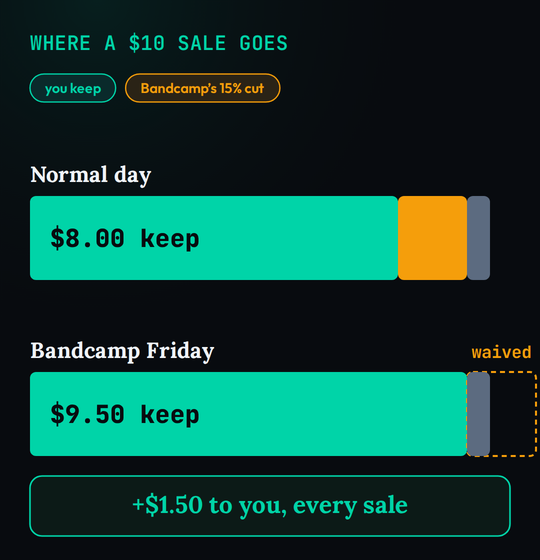
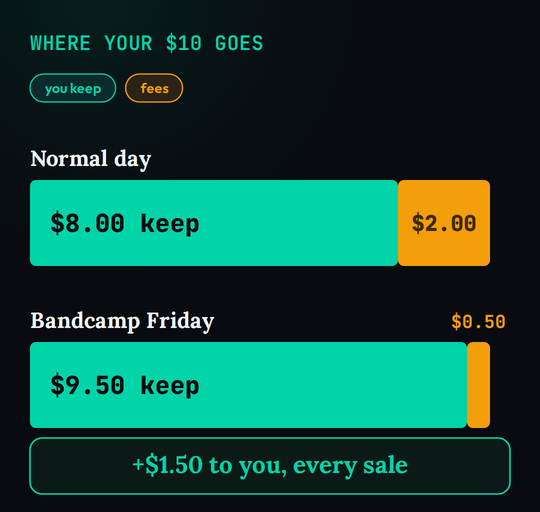
is-bandcamp-worth-it: music-business — article + 3 figure PNG (+3 alt) + search-index + sitemap, one deploy [S212]

diff --git a/articles/is-bandcamp-worth-it.html b/articles/is-bandcamp-worth-it.html
@@ -533,7 +533,7 @@ html{overflow-x:clip!important;max-width:none!important}body{overflow-x:clip!imp
 <p>Then there are Bandcamp Fridays, which are the single best reason to plan your release calendar around the platform. On these days Bandcamp waives its own revenue share entirely, so you keep 100% of the sale price and lose only the unavoidable processor fee. On a $10 sale that is the difference between netting around $8.00 on a normal day and around $9.30 to $9.50 on a Bandcamp Friday. For 2026 there are eight of them &mdash; February 6, March 6, May 1, August 7, September 4, October 2, November 6 and December 4 &mdash; the longest schedule Bandcamp has ever announced in advance, and the second half of the year is deliberately front-loaded because sales tend to climb toward the holidays.</p>
 
 <p>It is worth sitting with what that fee model means over a catalogue rather than a single sale. The 15% share is charged only on the sale, with no listing fees, no monthly platform cost and no minimum to clear before you are paid, so a working artist keeps the overwhelming majority of every transaction from the very first one. The permanent drop to 10% after $5,000 in cumulative sales quietly rewards artists who stick with the platform, and it stacks: once you cross that threshold, every future sale keeps a little more. Against a streaming model where you are effectively renting exposure in exchange for fractions of a cent, the trade is easy to read &mdash; you give up reach in exchange for keeping most of the money from the people who actually buy. The transparency matters as much as the number. You always know exactly what you earned and why, which makes planning a release, a price and a margin something you can do on the back of an envelope rather than by decoding a royalty statement.</p>
-<div class="diagram-wrap"><picture><source media="(max-width:900px)" srcset="../images/is-bandcamp-worth-it-fees-vs-bandcamp-friday-m.png" width="540" height="560"><img src="../images/is-bandcamp-worth-it-fees-vs-bandcamp-friday.png" alt="Where a $10 Bandcamp sale goes, shown as two aligned horizontal bars. On a normal day the artist keeps about $8.00 in teal, an amber block shows Bandcamp&rsquo;s 15 percent cut of about $1.50, and a small slate slice is roughly $0.50 of card processing. On a Bandcamp Friday the amber Bandcamp-cut block is gone — waived — so the teal you-keep portion extends to about $9.50 with only the small processing slice left, a gain of $1.50 to the artist on every sale." width="1040" height="486" loading="lazy" decoding="async"></picture></div>
+<div class="diagram-wrap"><picture><source media="(max-width:900px)" srcset="../images/is-bandcamp-worth-it-fees-vs-bandcamp-friday-m.png" width="540" height="512"><img src="../images/is-bandcamp-worth-it-fees-vs-bandcamp-friday.png" alt="Where a $10 Bandcamp sale goes, shown as two aligned horizontal bars split into what you keep (teal) and fees (amber). On a normal day you keep about $8.00 and roughly $2.00 goes to fees. On a Bandcamp Friday, with the 15 percent revenue share waived, the teal you-keep portion grows to about $9.50 and fees shrink to about $0.50 &mdash; a gain of $1.50 to the artist on every sale." width="1040" height="452" loading="lazy" decoding="async"></picture></div>
 
 <p>The program is not a gimmick. Since it began in 2020, Bandcamp Fridays have moved more than $150 million directly to artists and labels, and because the dates are known months ahead you can build a real campaign around one: announce a release, open pre-orders, and drive fans to add it to their wishlist so they are notified the moment the fee-free window opens. The practical takeaway is to stop dropping music on random Tuesdays and start timing your bigger releases, merch drops and bundles to land on or just before a Bandcamp Friday, when every dollar a fan spends reaches you almost whole.</p>
 
